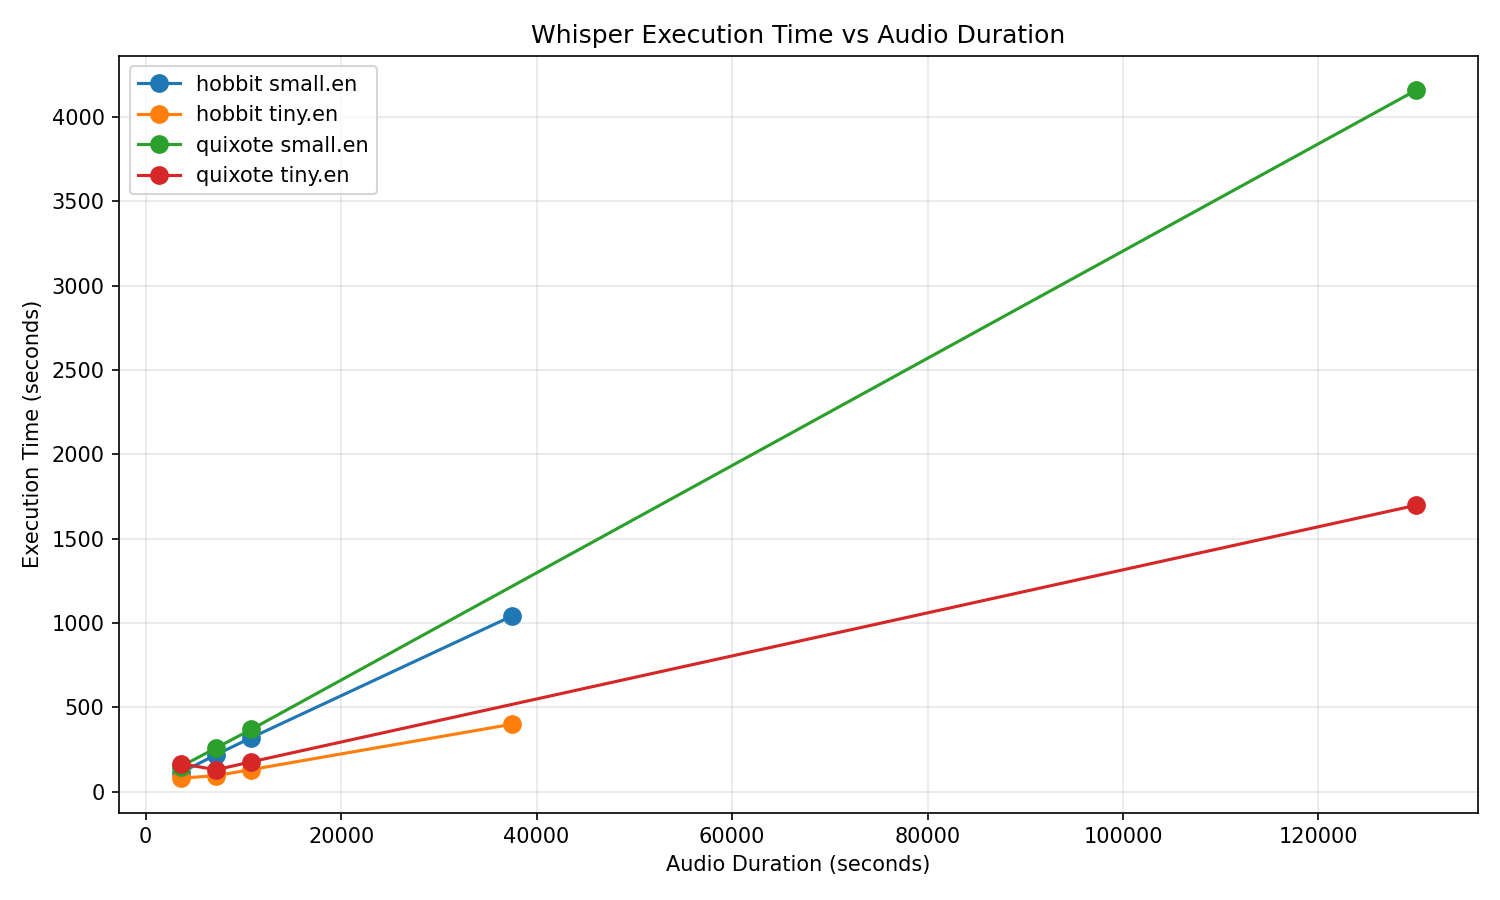
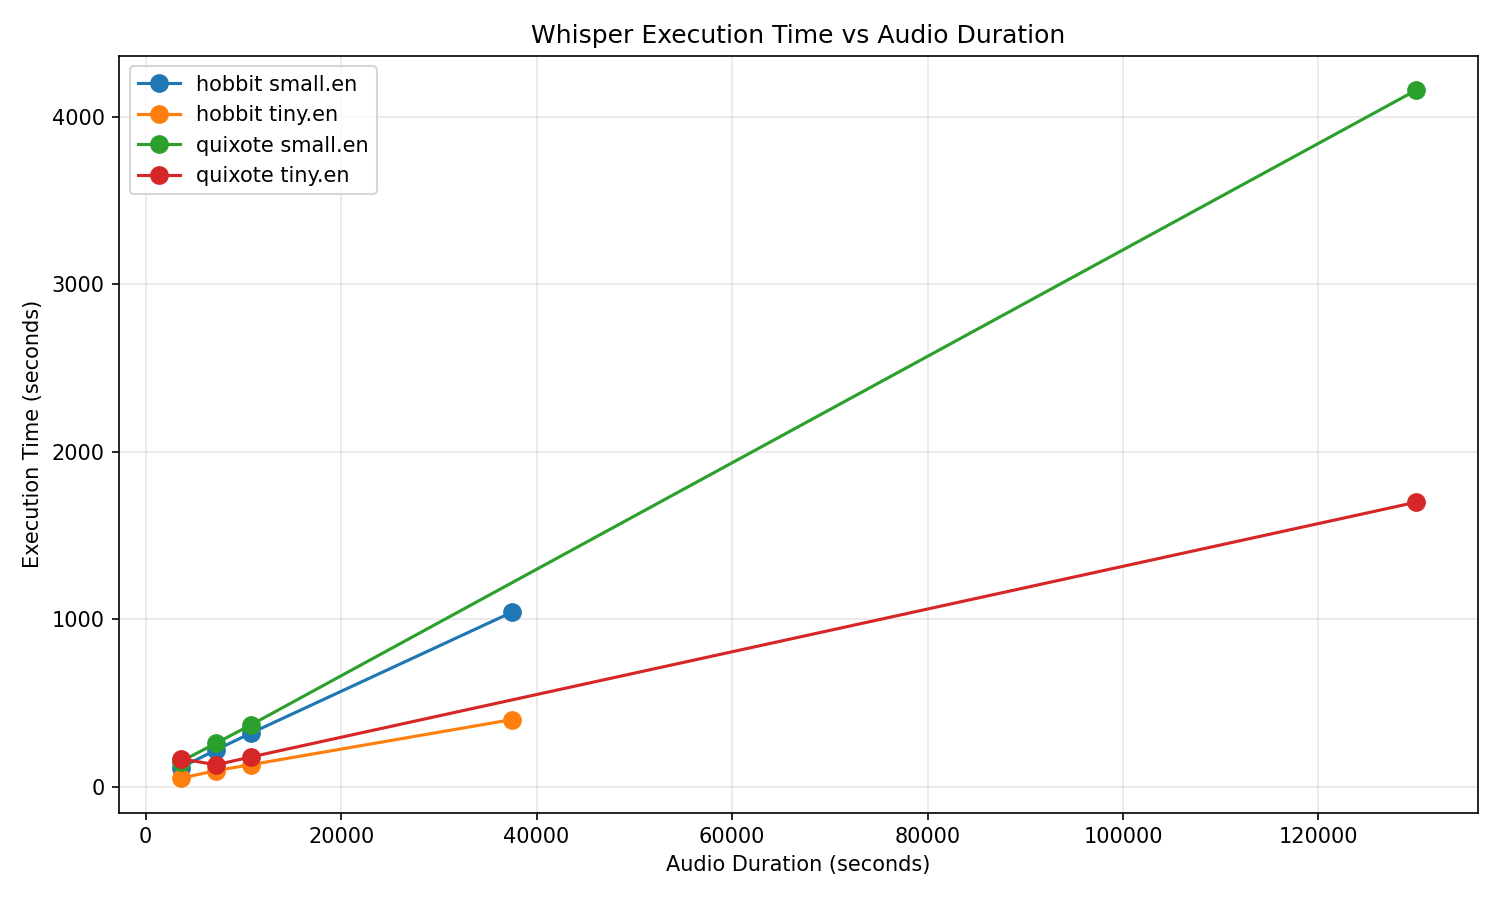
whisper: Derive benchmark timing from VTT provenance (Issue 101 Step 5)
resolveElapsedSec now reads elapsedMs from VTT header provenance
instead of summing task execution times, consistent with runners.ts
and whisper.ts. Falls back to legacy elapsedSec for old records.

diff --git a/bun-one/apps/whisper/scripts/benchmarks/run-bench.ts b/bun-one/apps/whisper/scripts/benchmarks/run-bench.ts
@@ -275,20 +275,22 @@ function resolveProcessedDuration(record: BenchmarkRecord): number | undefined {
   return undefined;
 }
 
-/** Derive elapsed seconds from tasks (sum of elapsedMs) or legacy field */
+/** Derive elapsed seconds from VTT provenance (original transcription time) or legacy field */
 function resolveElapsedSec(record: BenchmarkRecord): number {
-  // Prefer task-level timing
-  const tasks = record.tasks;
-  if (Array.isArray(tasks) && tasks.length > 0) {
-    const totalMs = tasks.reduce(
-      (sum: number, t: unknown) =>
-        sum +
-        (typeof t === "object" && t !== null && "elapsedMs" in t
-          ? (asNumber((t as Record<string, unknown>).elapsedMs) ?? 0)
-          : 0),
-      0,
-    );
-    if (totalMs > 0) return Math.round(totalMs / 1000);
+  // Prefer VTT header provenance elapsedMs (reflects actual transcription time)
+  const provenance = record.vttSummary?.provenance;
+  if (Array.isArray(provenance)) {
+    for (const p of provenance) {
+      if (
+        typeof p === "object" &&
+        p !== null &&
+        !("segment" in p) &&
+        "elapsedMs" in p
+      ) {
+        const ms = asNumber((p as Record<string, unknown>).elapsedMs);
+        if (ms && ms > 0) return Math.round(ms / 1000);
+      }
+    }
   }
   // Fall back to legacy elapsedSec from old JSON records
   return asNumber(record.elapsedSec) ?? 0;

diff --git a/bun-one/reports/benchmarks/summary.md b/bun-one/reports/benchmarks/summary.md
@@ -1,6 +1,6 @@
 # Whisper Benchmark Results
 
-Generated: 2026-02-09T18:56:10.017Z
+Generated: 2026-02-09T20:05:05.495Z
 
 ## Results
 
@@ -11,7 +11,7 @@ Generated: 2026-02-09T18:56:10.017Z
 | hobbit.m4b  | small.en | 7200s    | 220s    | 32.7x   | 2026-02-09T10:04:58.002Z |
 | hobbit.m4b  | small.en | 10800s   | 321s    | 33.6x   | 2026-02-09T10:10:19.031Z |
 | hobbit.m4b  | tiny.en  | full     | 401s    | 93.5x   | 2026-02-09T09:59:23.321Z |
-| hobbit.m4b  | tiny.en  | 3600s    | 81s     | 44.4x   | 2026-02-09T18:56:10.014Z |
+| hobbit.m4b  | tiny.en  | 3600s    | 51s     | 70.6x   | 2026-02-09T20:05:05.491Z |
 | hobbit.m4b  | tiny.en  | 7200s    | 96s     | 75.0x   | 2026-02-09T09:50:30.797Z |
 | hobbit.m4b  | tiny.en  | 10800s   | 132s    | 81.8x   | 2026-02-09T09:52:42.631Z |
 | quixote.m4b | small.en | full     | 4157s   | 31.3x   | 2026-02-09T12:26:11.472Z |

diff --git a/bun-one/plans/WHISPER-ONGOING.md b/bun-one/plans/WHISPER-ONGOING.md
@@ -50,7 +50,7 @@ Ordered for incremental, type-safe execution:
 - [x] **Step 4: Remove smart dry-run hack** (No longer needed)
   - VttSummary now provides timing from provenance naturally
   - Remove lines 262-277 in `runWhisperPipeline`
-- [ ] **Step 5: Simplify run-bench.ts** (Optional cleanup)
+- [x] **Step 5: Simplify run-bench.ts** (Optional cleanup)
   - Could rely on .vtt file directly, or re-serialize VttSummary
   - Instead of depending on runWhisper's JSON output
 - [ ] **Step 6: Distinguish Task/TaskConfig** (Optional structural cleanup)
